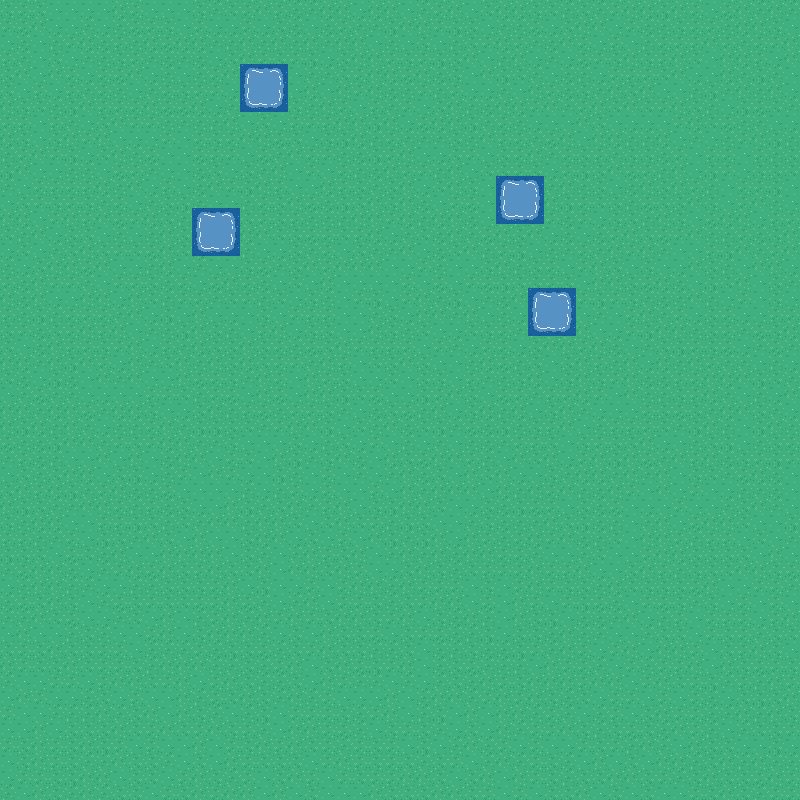
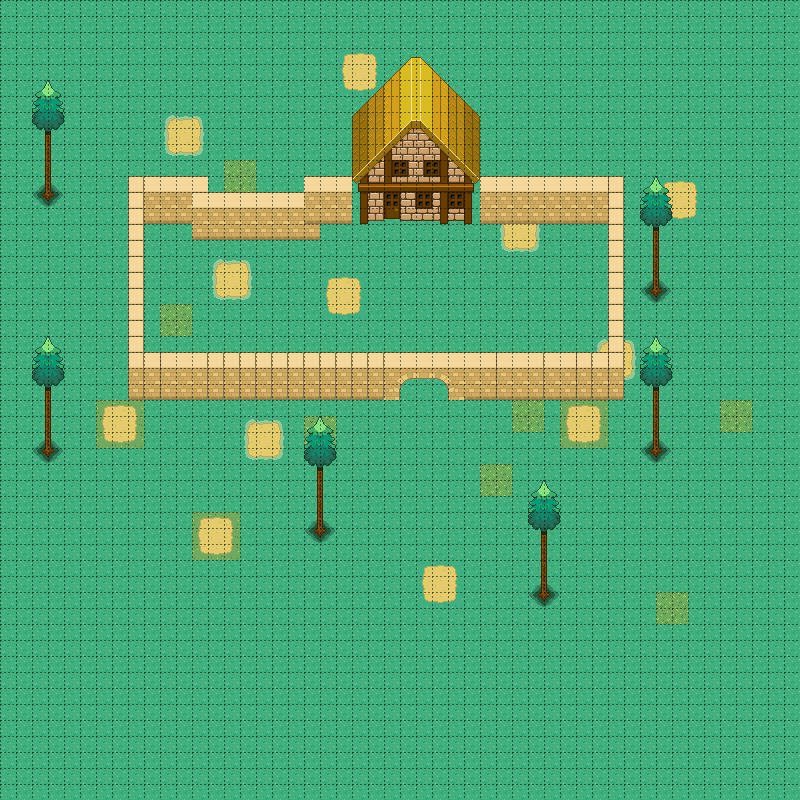
oh jesus christ the map fucking works

diff --git a/public/game/newGame.js b/public/game/newGame.js
@@ -6,6 +6,7 @@ var PhaserGame = function(game){
 	this.man = null
 	this.manimation = null
 }
+
 PhaserGame.prototype = {
 	 init: function () {
 
@@ -15,23 +16,25 @@ PhaserGame.prototype = {
 
         preload: function () {
         	this.load.tilemap('map', 'assets/maps/newMap.json', null, Phaser.Tilemap.TILED_JSON);
-            this.load.image('tiles', 'assets/maps/newMap.bmp');
+            this.load.image('tiles', 'assets/maps/spritesheet.png');
             this.load.spritesheet('man', 'assets/walkcycle/BODY_male.png',64,64);
 		},
 		create: function () {
+			// this.add.tileSprite(0,0,1024,1024,'tiles')
 
             this.map = this.add.tilemap('map');
             this.map.addTilesetImage('spritesheet', 'tiles');
 
             this.layer = this.map.createLayer('Ground');
-            this.layer = this.map.createLayer('Terrain');
+            this.terrain = this.map.createLayer('Terrain');
 
-            // this.map.setCollision(20, true, this.layer);
+            this.map.setCollision(20, true, this.terrain);
 
             this.man = this.add.sprite(10, 10, 'man');
             this.man.anchor.set(0.5,0.5);
 
             this.physics.arcade.enable(this.man);
+            this.physics.arcade.collide(this.man, this.terrain)
 
             this.manimation = this.man.animations
 		    this.manimation.add('walkLeft',[10,11,12,13,14,15,16,17],20,true)

diff --git a/public/game/game.js b/public/game/game.js
@@ -5,7 +5,7 @@ function preload(){
 	this.game.load.tilemap('overworld','assets/maps/newMap.json',null, Phaser.Tilemap.TILED_JSON)
 	this.game.load.spritesheet('man','assets/walkcycle/BODY_male.png',64,64)
 	// game.load.spritesheet('man','assets/BODY_male_left.png',64,64,9)
-	this.game.load.image('tiles','assets/maps/newMap.png')
+	this.game.load.image('tiles','assets/maps/spritesheet.png')
 
 }
 function create(){
@@ -13,9 +13,10 @@ function create(){
 	var map = this.game.add.tilemap("overworld")
 	map.addTilesetImage("spritesheet","tiles")
 	this.game.layer = map.createLayer('Ground');
-    this.game.terrain = map.createLayer('Terrain');
+	this.game.terrain = map.createLayer('Terrain');
+    // this.game.terrain = map.createLayer('Terrain');
     // this.game.obj = map.createLayer('Object Layer 1')
-    // map.setCollisionBetween(1, 4000, true, 'Terrain');
+    map.setCollisionBetween(1, 4000, true, 'Terrain');
 
 	// layer = map.createLayer("Ground")
 	// terrain = map.createLayer("Terrain")

diff --git a/public/index.html b/public/index.html
@@ -13,7 +13,8 @@
     	<h1>Ayoooo</h1>
     	<!-- <div id="game"></div> -->
 
-    <script type="text/javascript" src= "game/newGame.js"></script>
+    <script type="text/javascript" src= "game/game.js"></script>
+    <!-- <script type="text/javascript" src= "game/newGame.js"></script> -->
 
     </body>
 </html>
